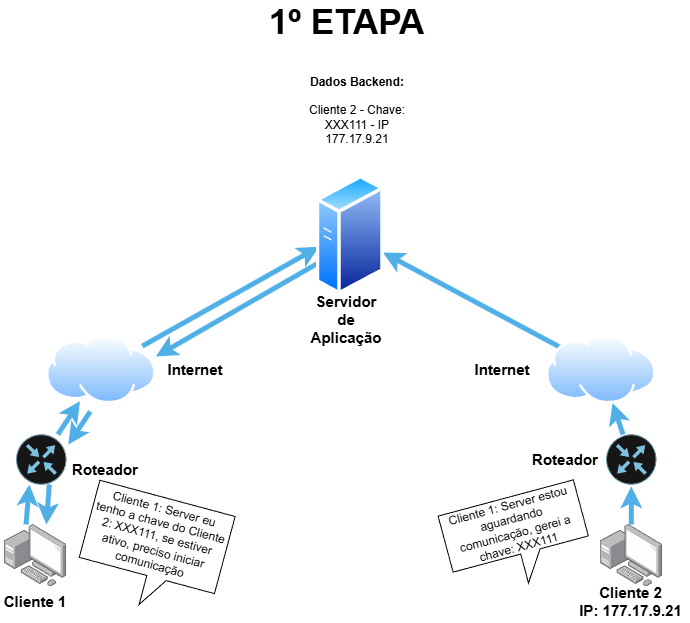
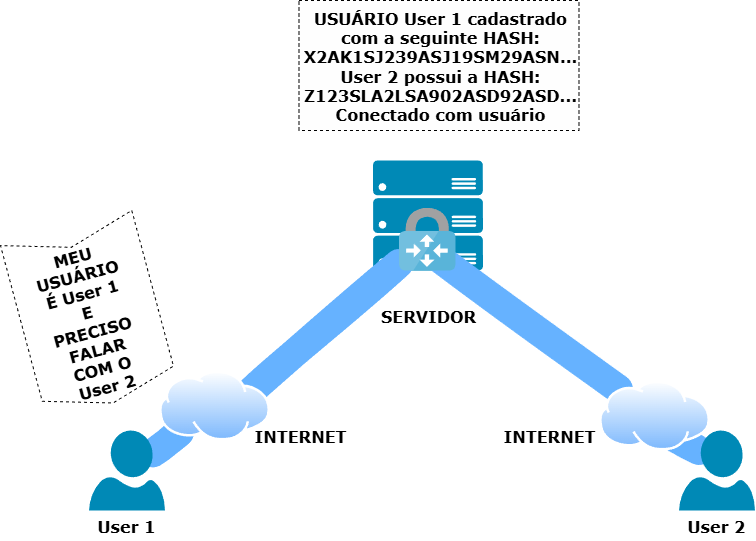
feat: Reescrevendo trecho sobre arquitetura da comunicação do sistema - close #35

diff --git a/textuais/metodologia.tex b/textuais/metodologia.tex
@@ -15,64 +15,51 @@ central do projeto.
 
 \subsection{Arquitetura de Comunicação}
 
-Apresentando nosso servidor e aplicação que oferecem uma solução robusta
-e eficiente para a comunicação segura entre clientes, mostraremos
-como as aplicações de mercado deveriam se comportar no nível superior
-aos cuidados de segurança da informação. A estrutura da nossa
-aplicação é composta por duas etapas fundamentais que garantem um
-processo de conexão transparente e seguro. Inicialmente, os clientes
-solicitam o endereço \acs{IP} externo de forma transparente, enquanto o
-servidor cuida da gestão dessa informação por meio de uma chave
-aleatória gerada e armazenada no \textit{\gls{back-end}}.
+O processo de conexão começa com o cliente, que gera um hash de
+\acs{ID} exclusivo para identificá-lo. Este identificador, em vez do
+endereço \acs{IP}, é enviado para o servidor. O servidor recebe esse
+hash de \acs{ID} e o armazena em um banco de dados Redis, onde
+permanece ativo enquanto o usuário estiver conectado. Durante este
+processo, o servidor verifica se o hash do \acs{ID} já existe para
+evitar usuários duplicados, garantindo a unicidade de cada conexão.
 
-A função da chave é armazenar o identificador do destino de forma
-segura, uma vez que o endereço \acs{IP} do cliente não é visível
-diretamente ao usuário, sua confidencialidade é preservada.
+Essa abordagem preserva a confidencialidade do cliente, já que o
+endereço \acs{IP} não é exposto diretamente. O hash do \acs{ID} se
+torna a chave de acesso, permitindo que o cliente se conecte ao
+destino de forma controlada e segura.
 
 \begin{figure}[H]
   \centering
   \includegraphics[width=0.8\linewidth]{imagens/arquitetura-etapa1.png}
-  \caption[Primeira etapa da conexão com o servidor, onde o
-    cliente solicita ao servidor que o conecte com o usuário de
-  destino]{O cliente solicita ao servidor que o conecte com o usuário
-  de destino.}
+  \caption[Primeira etapa da conexão com o servidor, onde o cliente
+  solicita ao servidor que o conecte com o usuário de destino]{O
+    cliente solicita ao servidor que o conecte com o usuário de destino
+  e estabeleça a comunicação inicial para troca de mensagens.}
   \label{fig:arquitetura_etapa1}
 \end{figure}
 
-O cliente tendo a chave em mãos, tentará estabelecer uma conexão
-com o destino. Se este estiver online, o servidor atua como um
-identificador exclusivo, assegurando que a comunicação seja iniciada
-de maneira controlada e segura.
+Uma vez estabelecida a conexão, todas as mensagens transitam
+exclusivamente pelo servidor. É importante ressaltar que toda a
+comunicação é criptografada, garantindo que os dados não sejam
+armazenados durante a transferência. O servidor atua como um
+transportador ágil e seguro, encaminhando as informações diretamente
+para o destinatário.
 
-À medida que as mensagens são trocadas, elas transitam exclusivamente
-pelo servidor, que se torna o meio principal para a interface com o
-destinatário. Importante destacar que toda comunicação realizada
-através do sistema é criptografada. Isso significa que os dados
-não são armazenados pelo servidor durante sua transferência, em vez
-disso, ele simplesmente transporta a informação até a outra ponta de
-forma ágil e segura.
+Ao final da sessão, a aplicação informa ao servidor sobre o
+encerramento da comunicação. Os dados do usuário, incluindo o has do
+\acs{ID}, são mantidos no banco de dados Redis enquanto o cliente
+estiver ativo. Eles são excluídos apenas quando o usuário se
+desconecta, garantindo a limpeza e a segurança dos dados.
 
 \begin{figure}[H]
   \centering
   \includegraphics[width=0.8\linewidth]{imagens/arquitetura-etapa2.png}
-  \caption[Segunda etapa da conexão com o servidor, a comunicação é
-  estabelecida com sucesso entre ambos os usuários]{A comunicação é
-  estabelecida com sucesso entre ambos os usuários.}
+  \caption[Segunda etapa da conexão com o servidor, onde o primeiro
+    usuário que desconectar é fechada a conexão do lado que sai, e o
+  servidor limpa seus dados salvos temporariamente.]{O primeiro
+    usuário que desconectar é fechada a conexão do lado que sai, e o
+  servidor limpa seus dados salvos temporariamente.}
   \label{fig:arquitetura_etapa2}
-\end{figure}
-
-No encerramento da comunicação na 3ª etapa, a aplicação informa ao
-servidor para iniciar a contagem de 12 horas para exclusão da chave e
-do \acs{IP} externo do usuário, caso não haja interação durante esse
-período pós fechamento da aplicação.
-
-\begin{figure}[H]
-  \centering
-  \includegraphics[width=0.8\linewidth]{imagens/arquitetura-etapa3.png}
-  \caption[Terceira etapa da conexão com o servidor, os usuários são
-  desconectados após 12 horas de inatividade]{Os usuários são
-  desconectados após 12 horas de inatividade.}
-  \label{fig:arquitetura_etapa3}
 \end{figure}
 
 \subsection{Prototipagem da Interface Gráfica}
